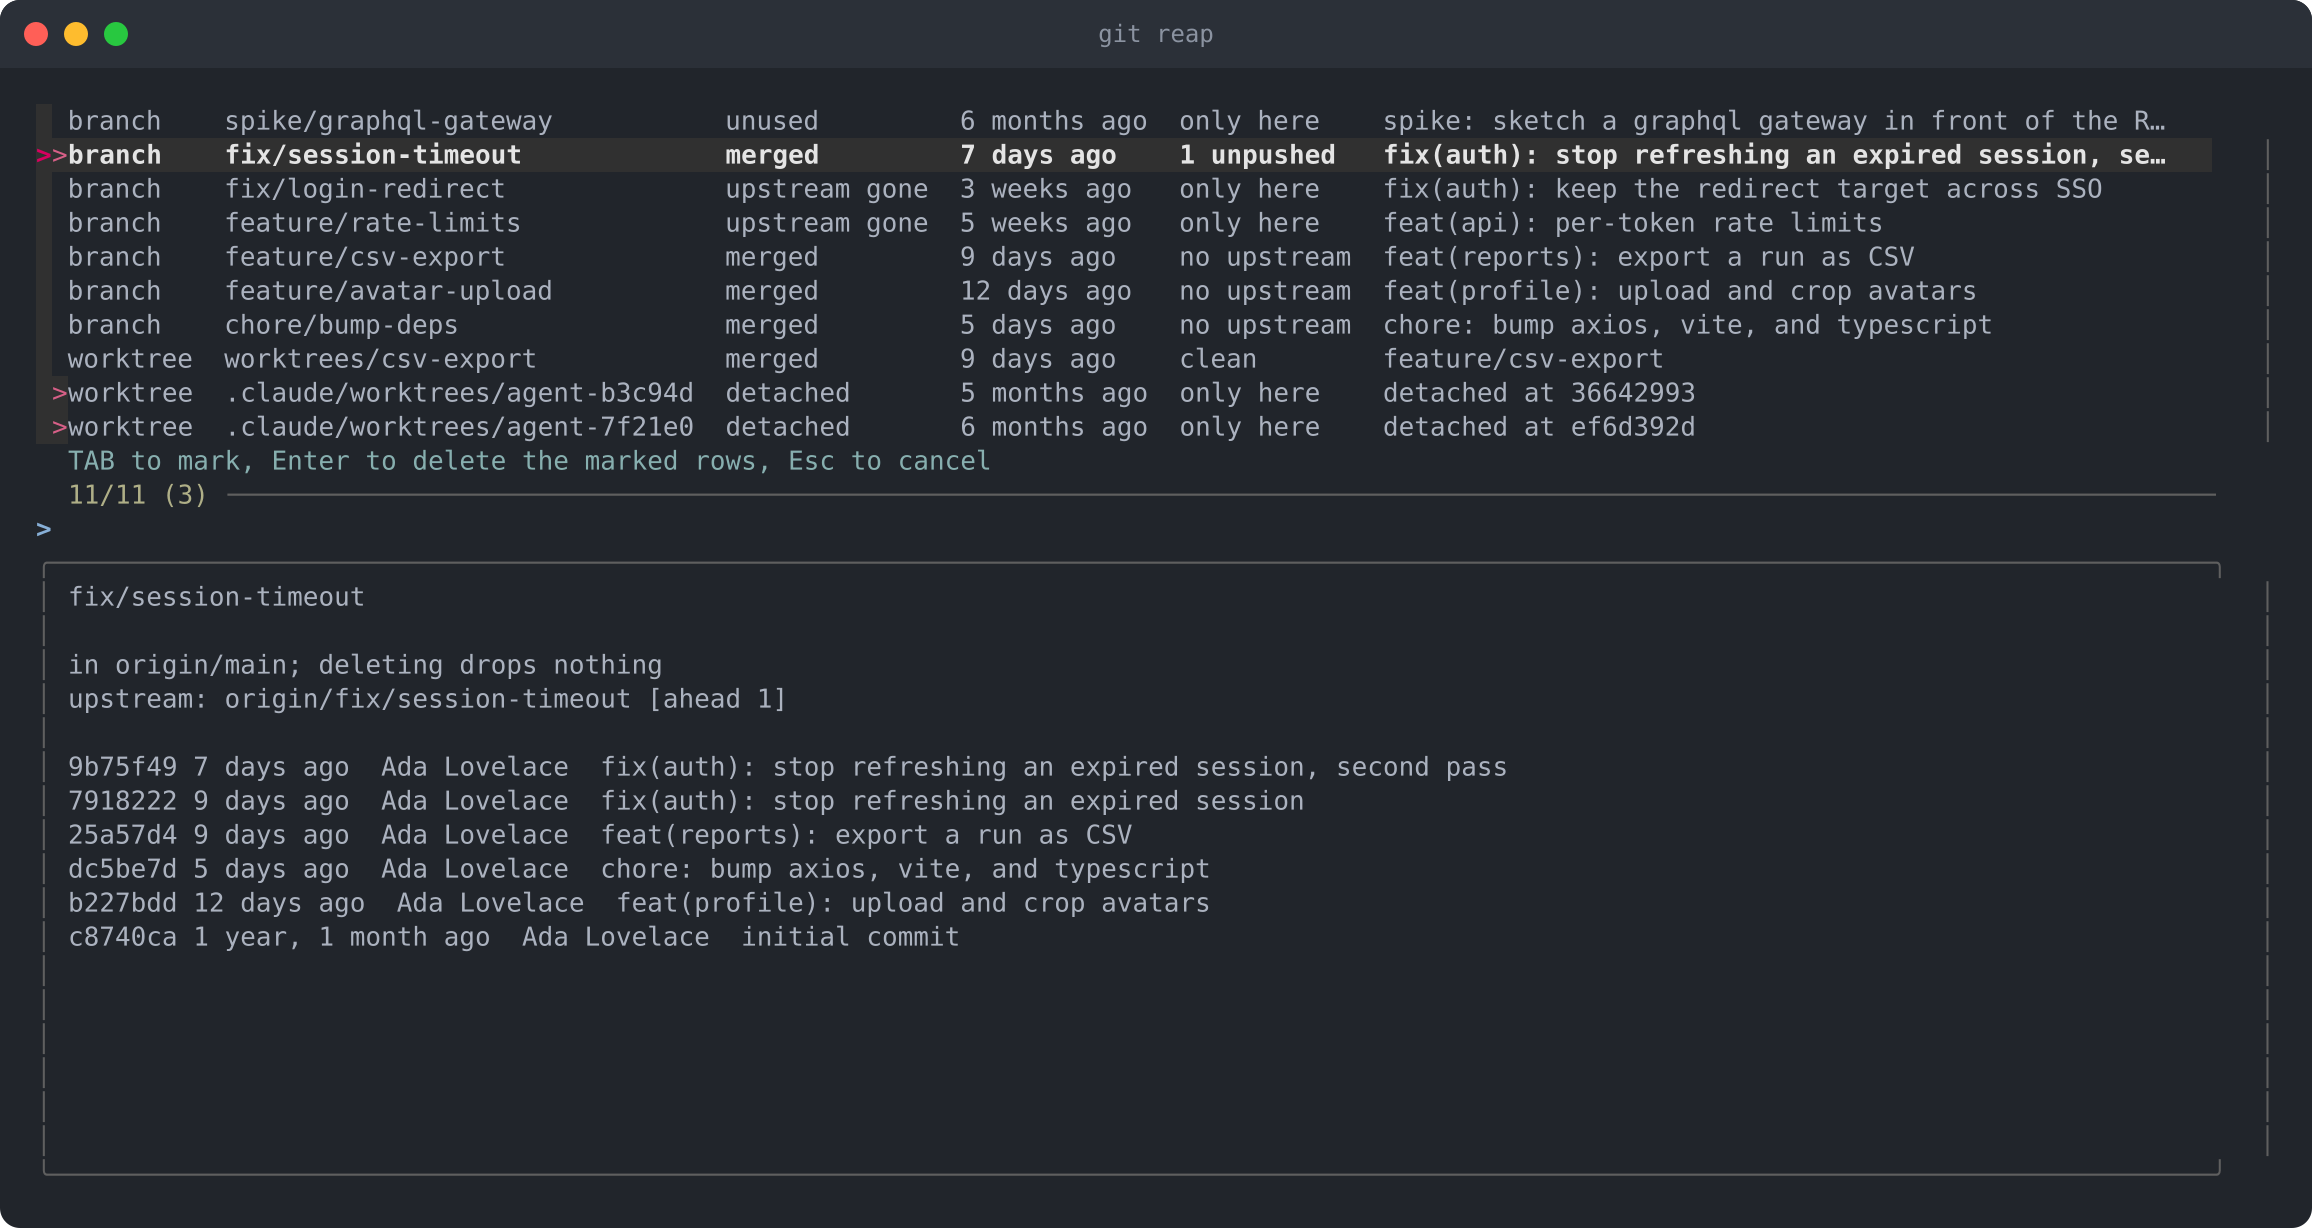
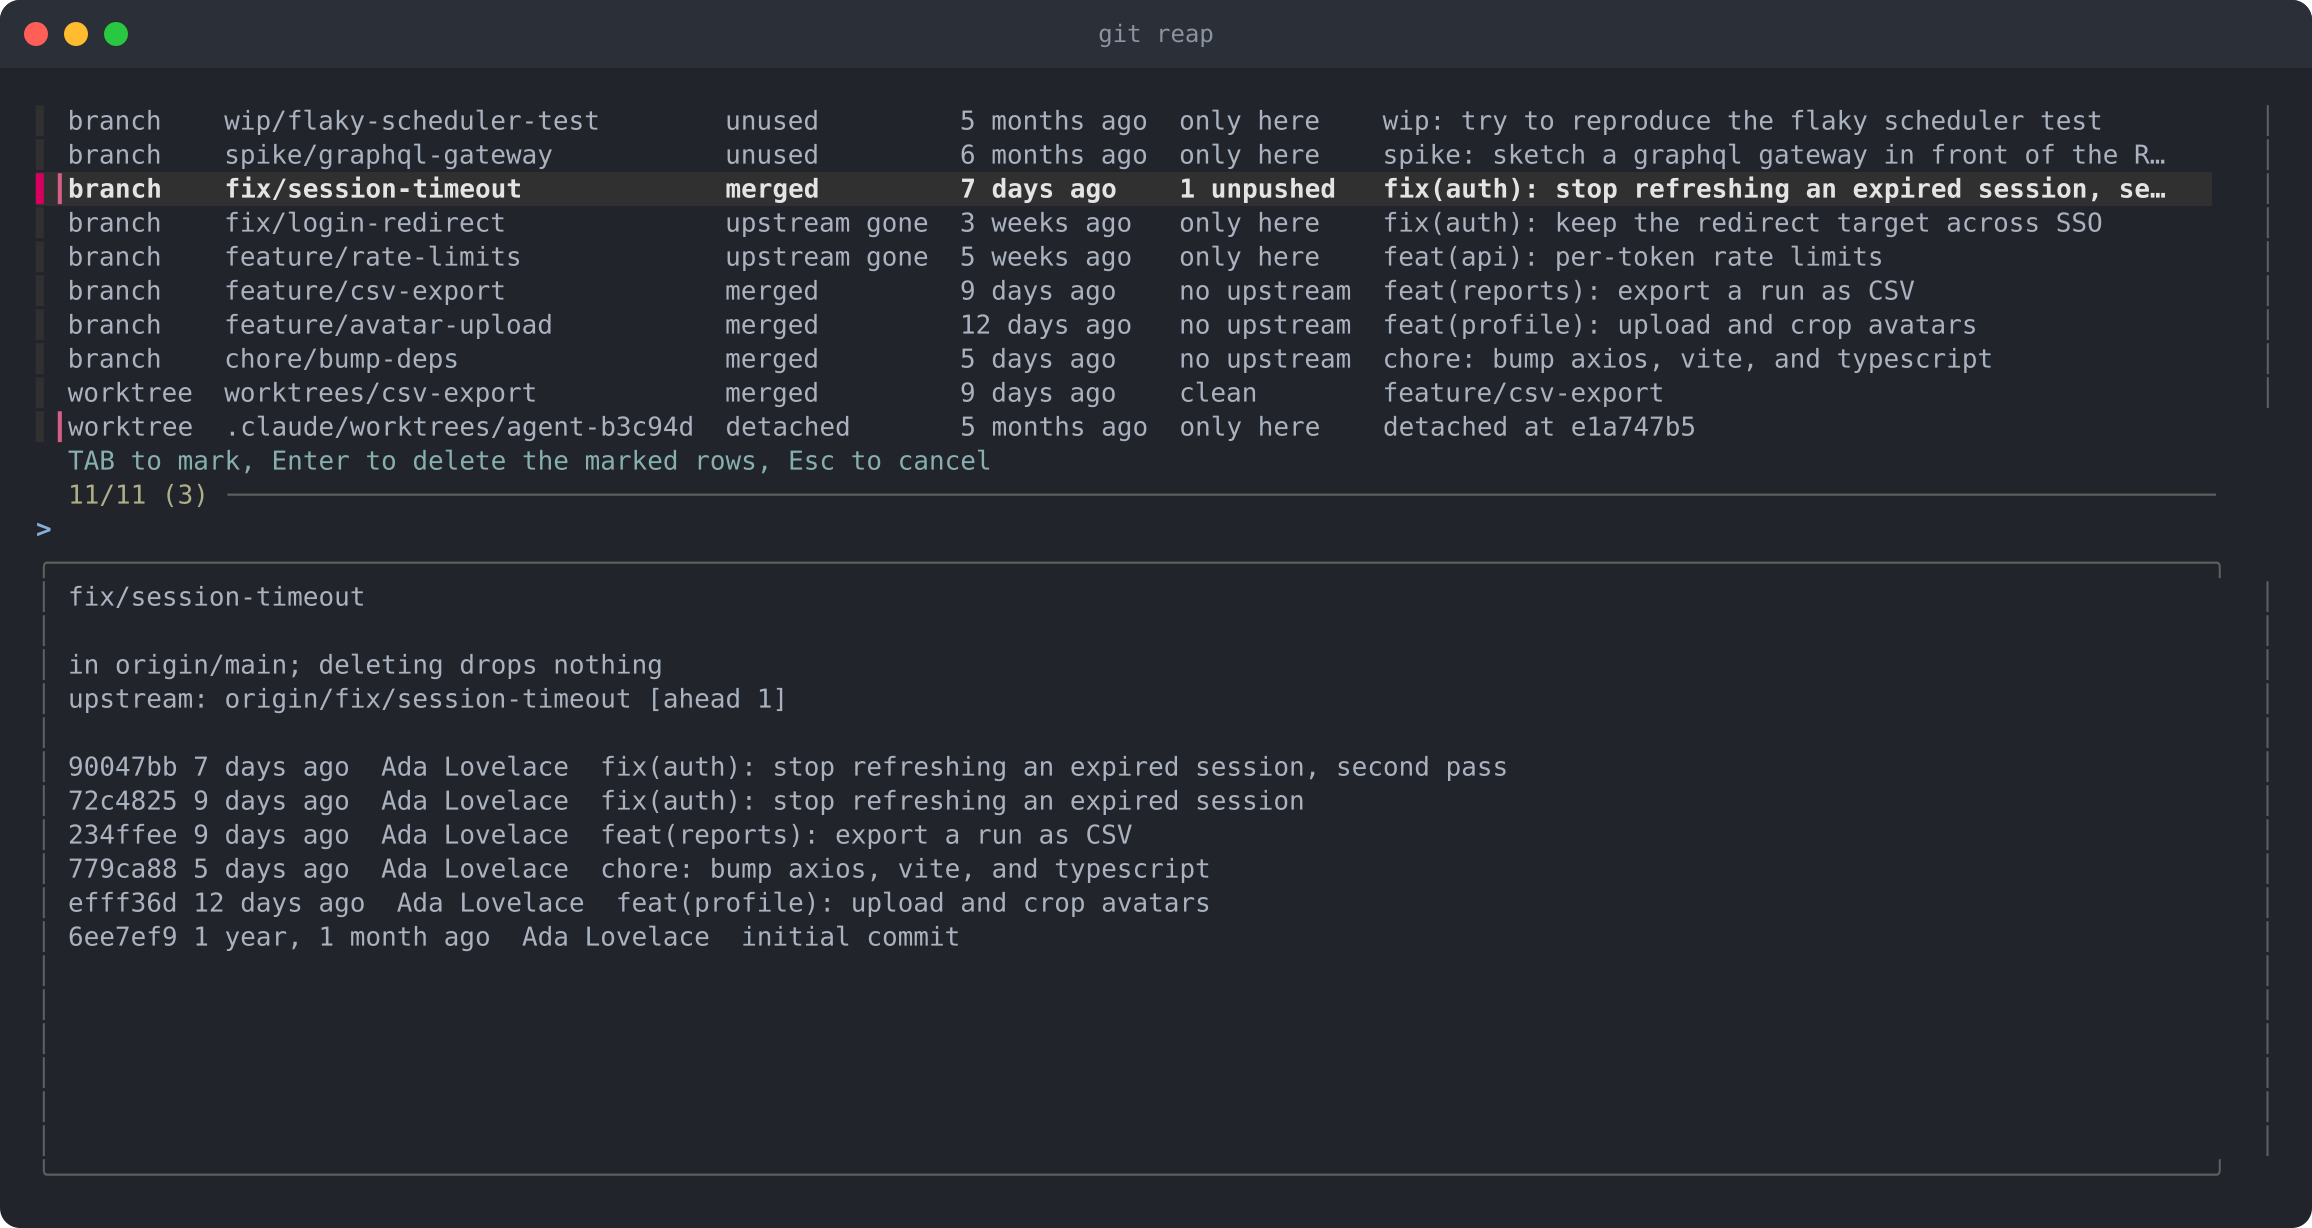
docs: Add second screenshot to show warning functionality

diff --git a/README.md b/README.md
@@ -31,6 +31,8 @@ found, and deletes only what you pick using `fzf`.
 - **Nothing to configure.** No config file, no state, no remote API, no token.
   One binary, and `git` and `fzf` on your `PATH`.
 
+![the preview pane in red, warning that spike/graphql-gateway's one commit exists nowhere else](docs/screenshot-warning.png)
+
 ## What qualifies for deletion
 
 | Reason          | What it means                                                                           |
@@ -192,18 +194,19 @@ whose upstream is gone, an idle branch, an active branch, and worktrees that are
 merged, dirty, idle-detached, and freshly detached — with a bare repository next
 door standing in for the remote, so the fetch is real but offline.
 
-The screenshot above is not a mockup, and it is not hand-maintained:
+The screenshots above are not mockups, and they are not hand-maintained:
 
 ```sh
 scripts/screenshot.sh
 ```
 
 builds the binary, builds a demo repository with something of each kind left
-lying around in it (`scripts/demo-repo.sh`), runs the real picker against that
-in a pty, and draws the screen it left behind (`scripts/capture.py`) into
-`docs/screenshot.png`. Commit dates in the demo are relative to today, so the
-ages hold still between runs; the hashes move, because they hash those dates.
-Needs `fzf`, `rsvg-convert`, and `python3` with [pyte](https://pypi.org/project/pyte/).
+lying around in it (`scripts/demo-repo.sh`), and runs the real picker against
+that in a pty twice, drawing each screen it left behind (`scripts/capture.py`)
+into `docs/screenshot.png` and `docs/screenshot-warning.png`. Commit dates in
+the demo are relative to today, so the ages hold still between runs; the
+hashes move, because they hash those dates. Needs `fzf`, `rsvg-convert`, and
+`python3` with [pyte](https://pypi.org/project/pyte/).
 
 Rather than installing those, open the repository in a Dev Containers-capable
 editor and let `.devcontainer/` supply them. It pins them to what Debian
